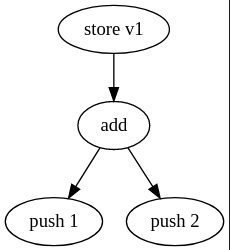
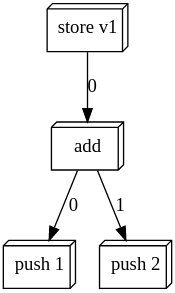
Update docs on API changes.

Changed region(s): [[0.2286, 0.0, 1.0, 1.0], [0.0, 0.728, 0.4571, 1.0], [0.3429, 0.644, 0.4571, 0.728]]

diff --git a/docs/data-flow/basics.rst b/docs/data-flow/basics.rst
@@ -63,8 +63,13 @@ Below an example snippet that obtains the dependency instructions of the ``add``
     var dependency2 = add.StackDependencies[1];
     
     // Get the instructions responsible for pushing the values 
-    var argument1 = dependency1.DataSources.First().Contents; // returns "push 1"
-    var argument2 = dependency2.DataSources.First().Contents; // returns "push 2"
+    var argument1 = dependency1.First().Contents; // returns "push 1"
+    var argument2 = dependency2.First().Contents; // returns "push 2"
+
+
+.. note::
+
+    The ``DataDependency<TContents>`` class also defines a property called ``DataSources``. In an attempt to reduce heap allocations, this extra collection is merged with the ``DataDependency<TContents>`` class, and the property was made obsolete. You can still use it, but it is redundent.
 
 
 To speed up the process, Echo defines an extension methods that obtains all of the dependency data flow nodes, and sorts them in such a way that they can be evaluated in order.
@@ -84,10 +89,13 @@ It is important to note that a single data dependency might have multiple data s
 
 For example, if we change the example slightly to the following control flow graph:
 
-.. image:: img/if.png
+.. image:: img/if.cfg.png
     :alt: An if statement.
 
-The value that is popped by the ``store v1`` instruction has two possible values, and therefore two different data sources. In Echo, this would be encoded as a single ``DataDependency<TContents>`` with two possible data sources ``push 1`` and ``push 2``. 
+The value that is popped by the ``store v1`` instruction has two possible values, and therefore two different data sources. In Echo, this would be encoded as a single ``DataDependency<TContents>`` with two possible data sources ``push 1`` and ``push 2``.  The resulting data flow graph would therefore look something like the picture below:
+
+.. image:: img/if.dfg.png
+    :alt: The associated data flow graph.
 
 Below an example on how to find the direct dependencies of the ``store v1`` node:
 
@@ -100,6 +108,6 @@ Below an example on how to find the direct dependencies of the ``store v1`` node
     var dependency = storeV1.StackDependencies[0];
 
     // Print out the possible data sources for this value:
-    foreach (DataFlowNode<T> sourceNode in dependency.DataSources)
+    foreach (DataFlowNode<T> sourceNode in dependency)
         Console.WriteLine(sourceNode.Contents);
 
